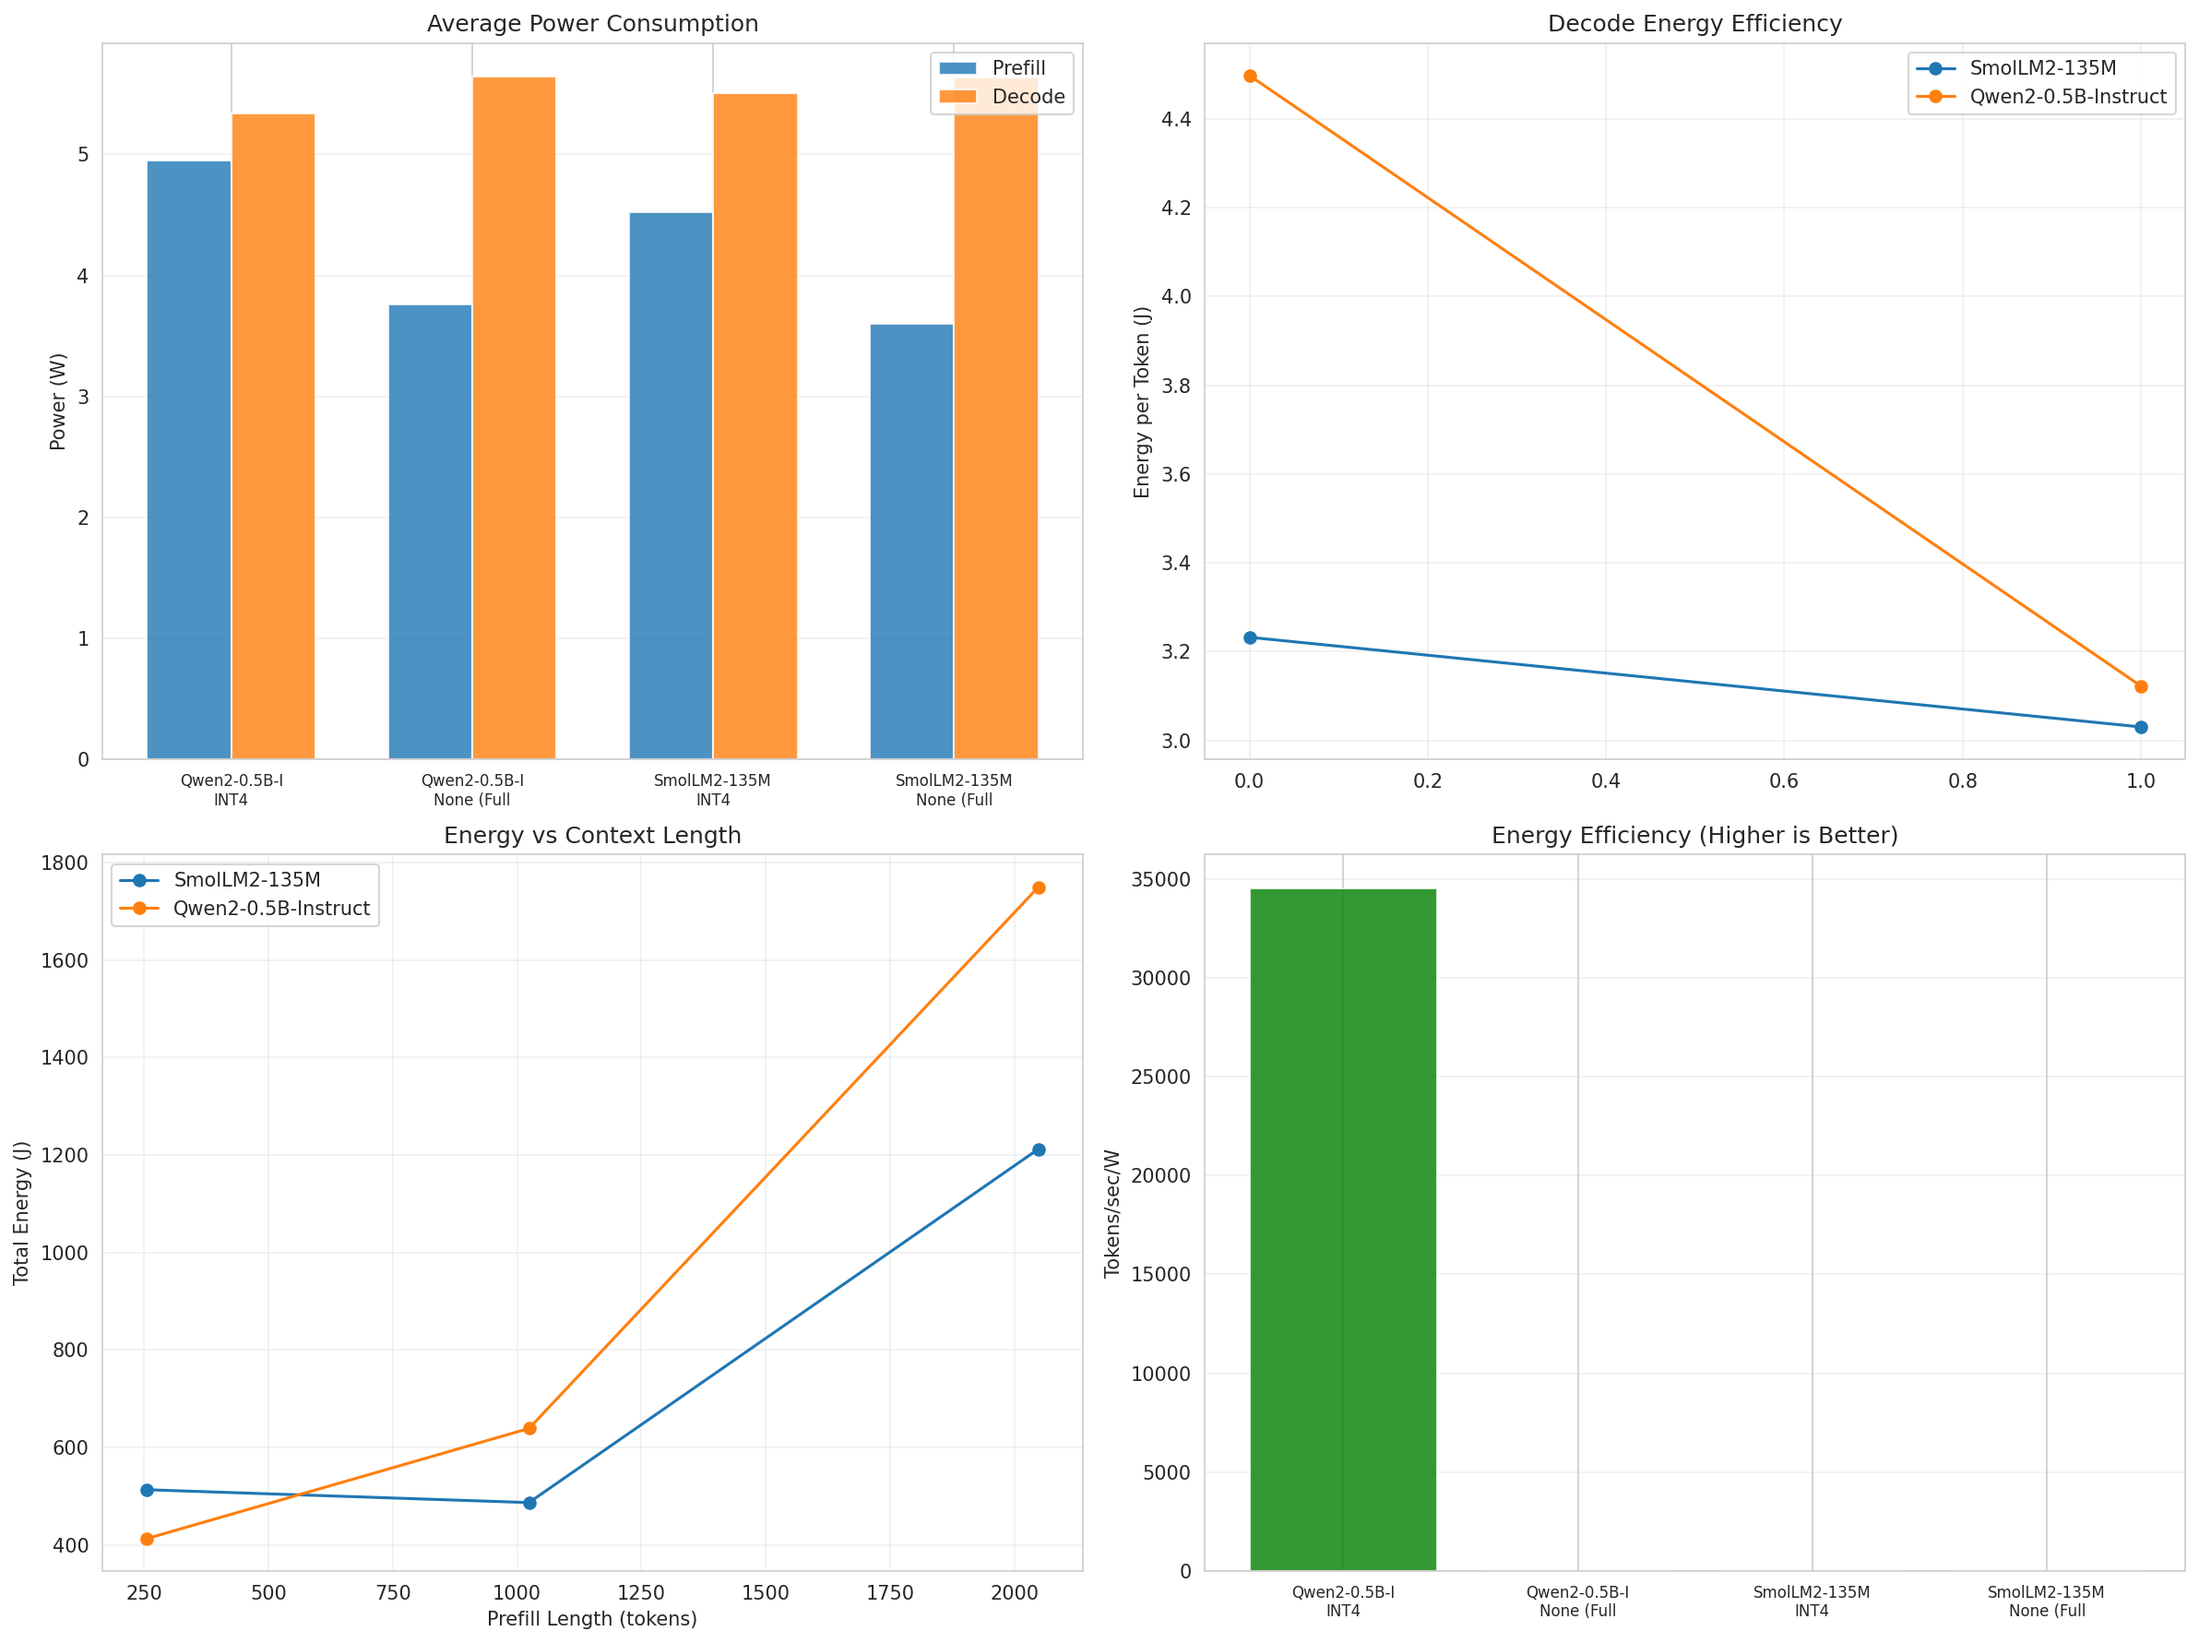
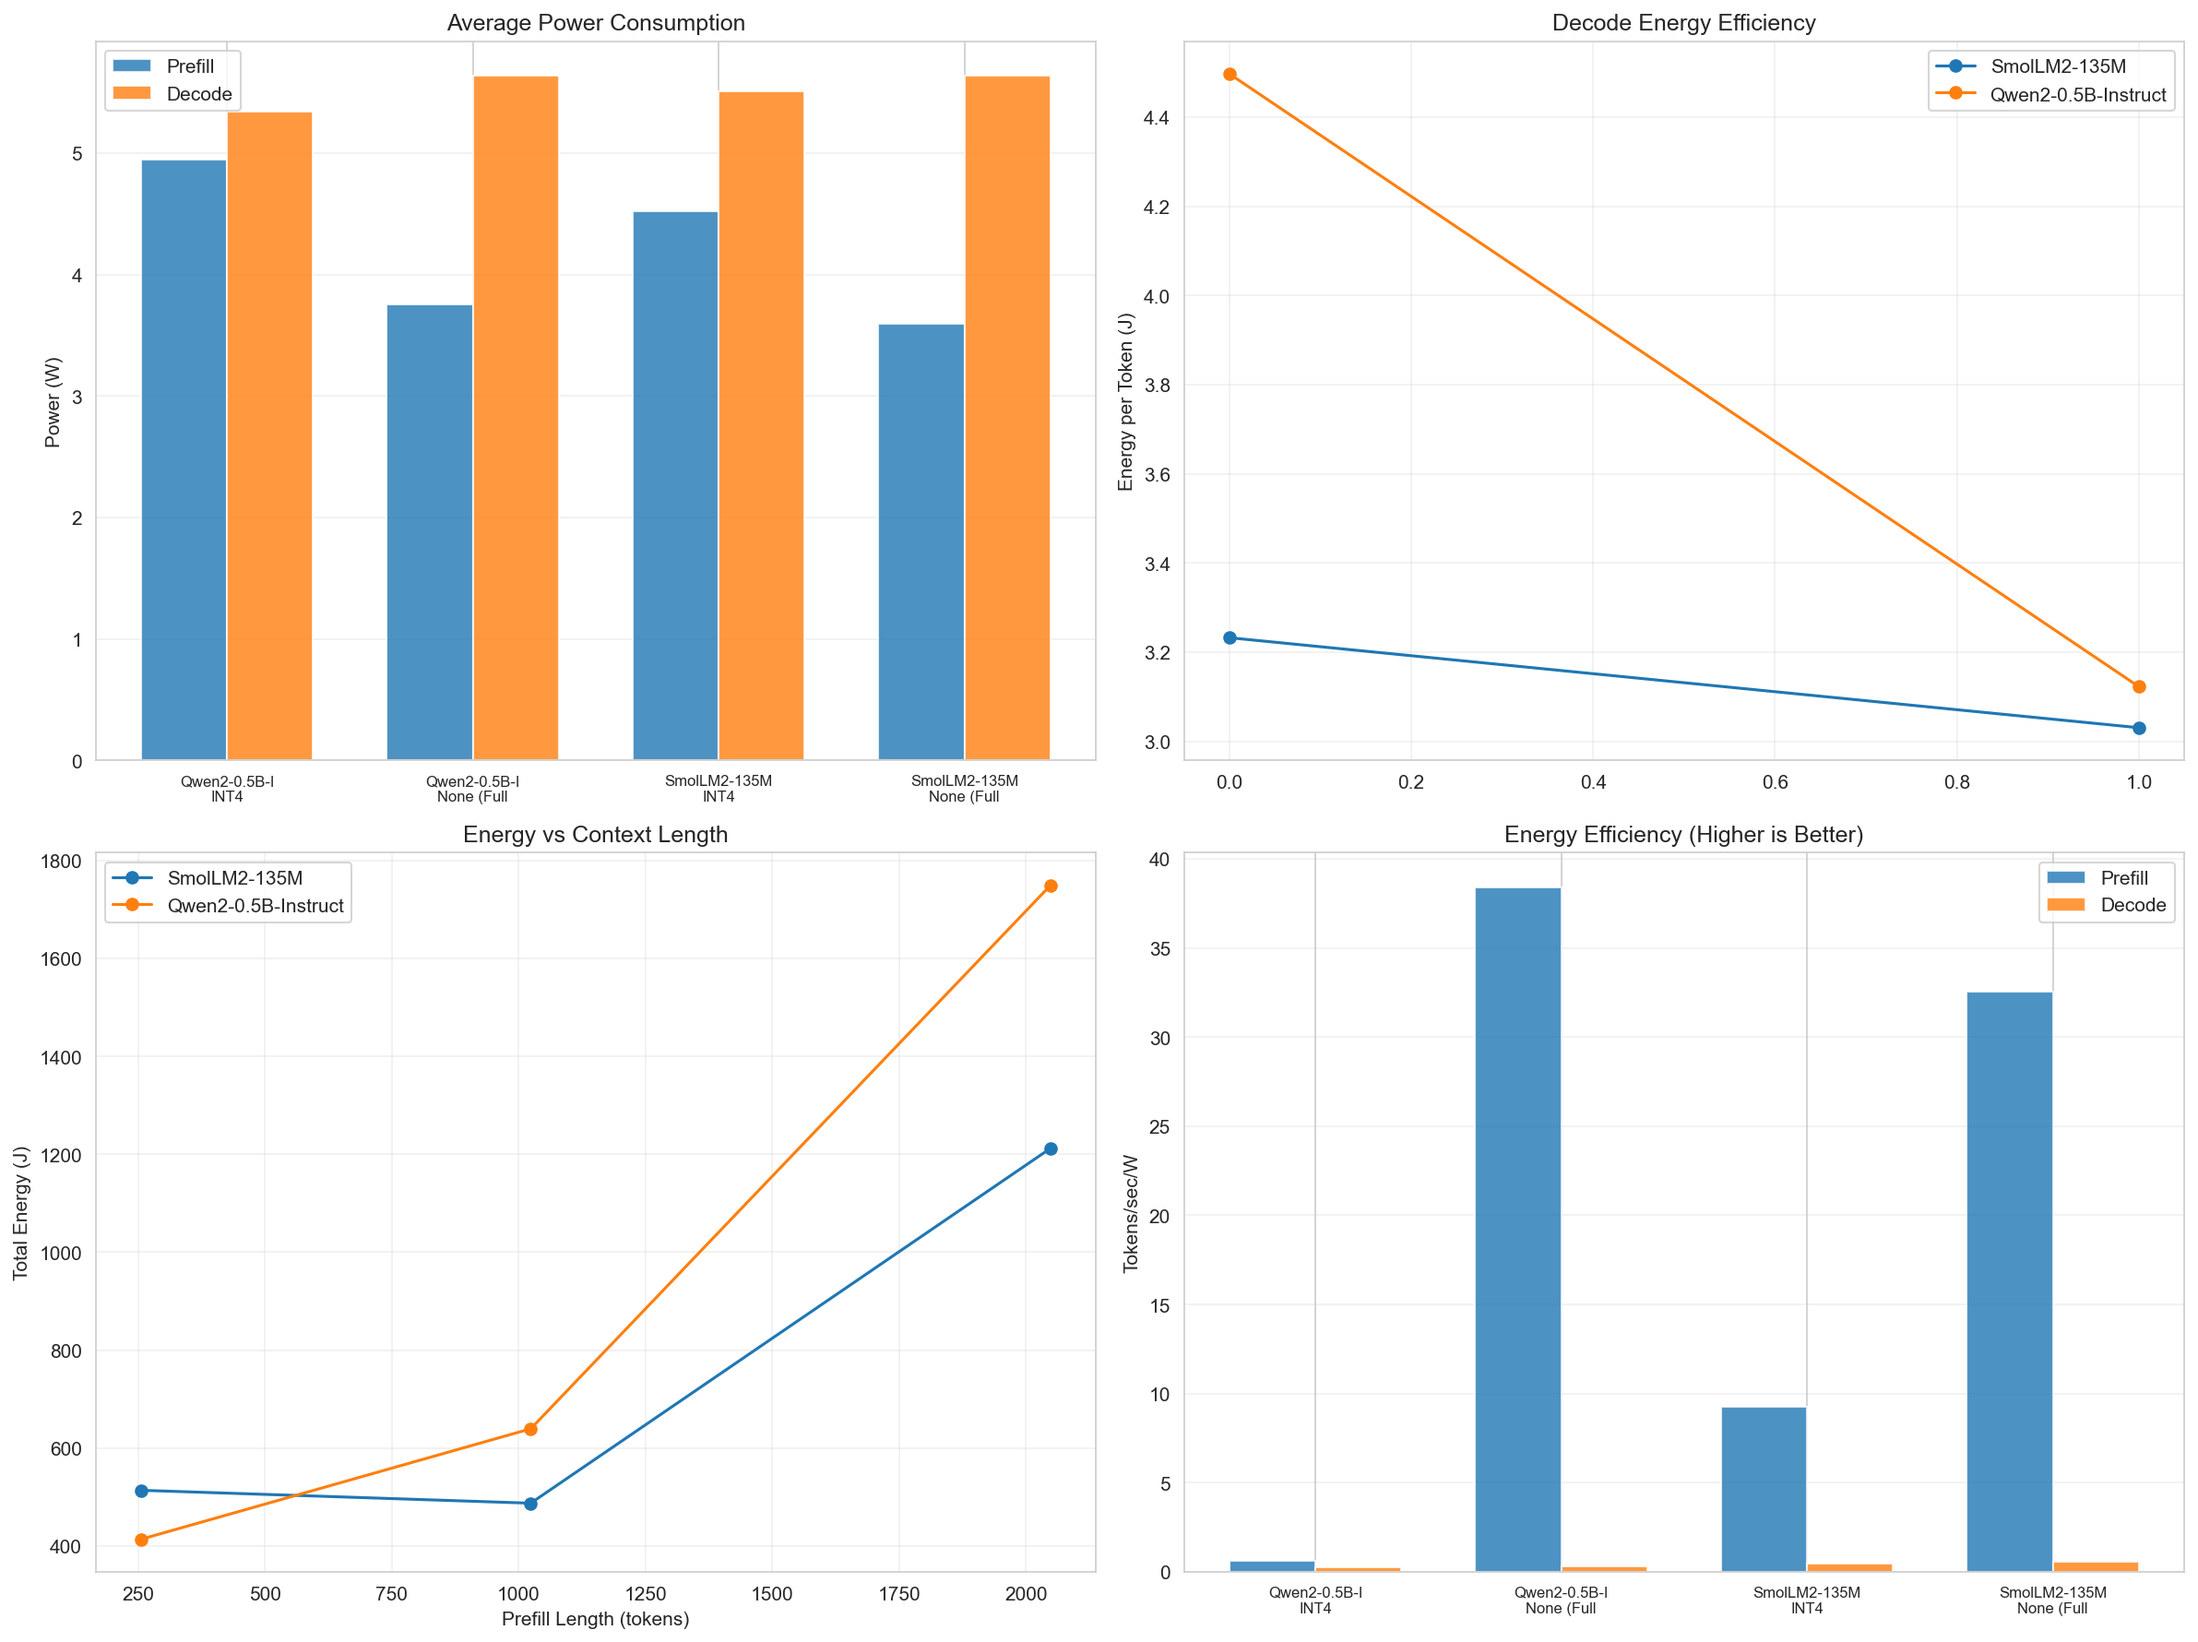
outlier handling

diff --git a/benchmarking/analyze_benchmark.py b/benchmarking/analyze_benchmark.py
@@ -199,17 +199,43 @@ class BenchmarkAnalyzer:
         axes[1, 0].legend()
         axes[1, 0].grid(alpha=0.3)
         
-        # Efficiency: tokens/sec/W
-        grouped = self.df.groupby(['model_name', 'quantization']).agg({
-            'decode_efficiency': 'mean',
-        }).reset_index()
-        
+        # Energy efficiency: tokens/sec/W (prefill & decode, robust to outliers)
+        grouped = (
+            self.df
+            .groupby(['model_name', 'quantization'])
+            .agg({
+                'prefill_efficiency': 'median',
+                'decode_efficiency': 'median',
+            })
+            .reset_index()
+        )
+
         x = np.arange(len(grouped))
-        axes[1, 1].bar(x, grouped['decode_efficiency'], alpha=0.8, color='green')
+        width = 0.35
+
+        axes[1, 1].bar(
+            x - width / 2,
+            grouped['prefill_efficiency'],
+            width,
+            label='Prefill',
+            alpha=0.8,
+        )
+        axes[1, 1].bar(
+            x + width / 2,
+            grouped['decode_efficiency'],
+            width,
+            label='Decode',
+            alpha=0.8,
+        )
+
         axes[1, 1].set_ylabel('Tokens/sec/W')
         axes[1, 1].set_title('Energy Efficiency (Higher is Better)')
         axes[1, 1].set_xticks(x)
-        axes[1, 1].set_xticklabels([f"{m[:12]}\n{q[:10]}" for m, q in zip(grouped['model_name'], grouped['quantization'])], fontsize=8)
+        axes[1, 1].set_xticklabels(
+            [f"{m[:12]}\n{q[:10]}" for m, q in zip(grouped['model_name'], grouped['quantization'])],
+            fontsize=8,
+        )
+        axes[1, 1].legend()
         axes[1, 1].grid(axis='y', alpha=0.3)
         
         plt.tight_layout()
@@ -699,18 +725,18 @@ def main():
     analyzer = BenchmarkAnalyzer(csv_path)
     
     print("\nGenerating visualizations...")
-    analyzer.plot_latency_breakdown()
-    analyzer.plot_throughput_analysis()
+    #analyzer.plot_latency_breakdown()
+    #analyzer.plot_throughput_analysis()
     analyzer.plot_energy_metrics()
-    analyzer.plot_memory_analysis()
-    analyzer.plot_thermal_analysis()
-    analyzer.plot_utilization_analysis()
-    analyzer.plot_quantization_impact()
-    analyzer.plot_context_length_scaling()
-    analyzer.plot_pareto_frontiers()
+    #analyzer.plot_memory_analysis()
+    #analyzer.plot_thermal_analysis()
+    #analyzer.plot_utilization_analysis()
+    #analyzer.plot_quantization_impact()
+    #analyzer.plot_context_length_scaling()
+    #analyzer.plot_pareto_frontiers()
     
-    print("\nGenerating summary report...")
-    analyzer.generate_summary_report()
+    #print("\nGenerating summary report...")
+    #analyzer.generate_summary_report()
     
     print(f"\n✓ All analyses complete!")
     print(f"  Output directory: {analyzer.output_dir}")
